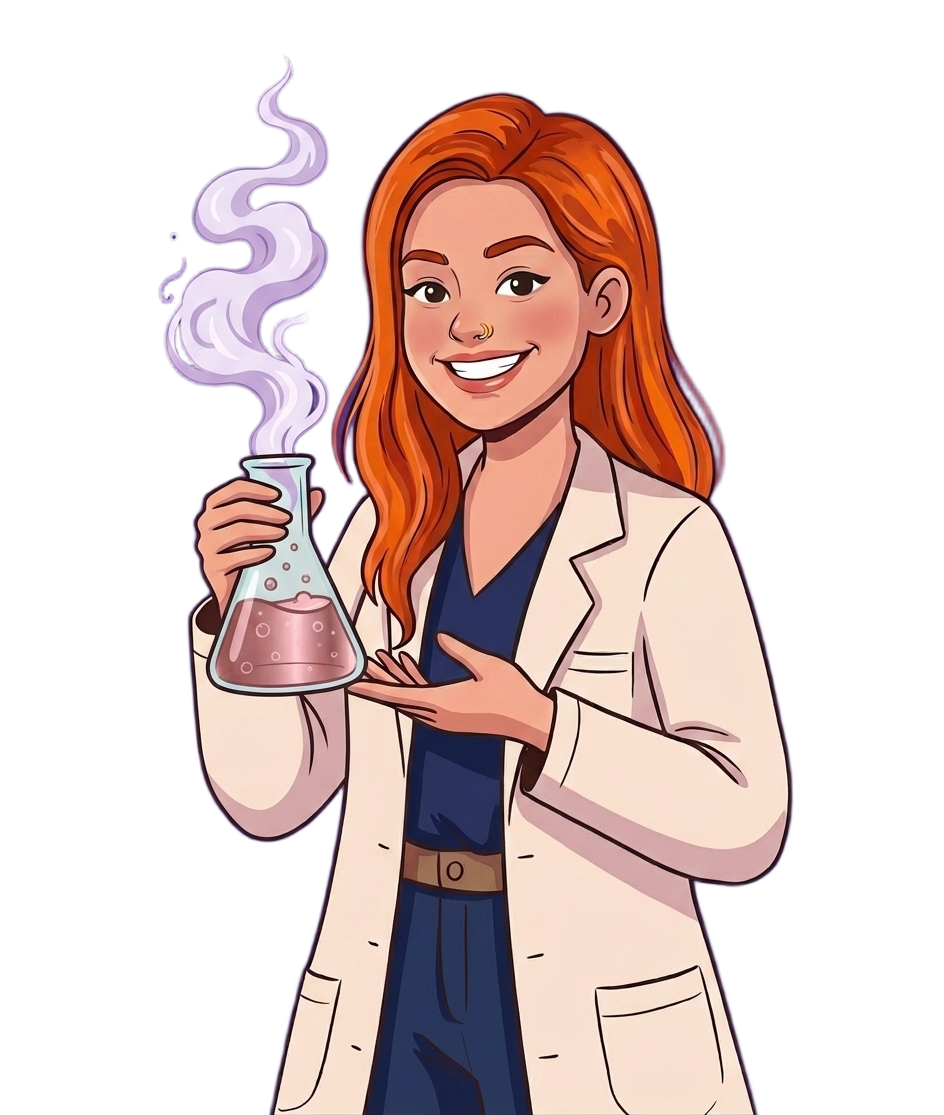
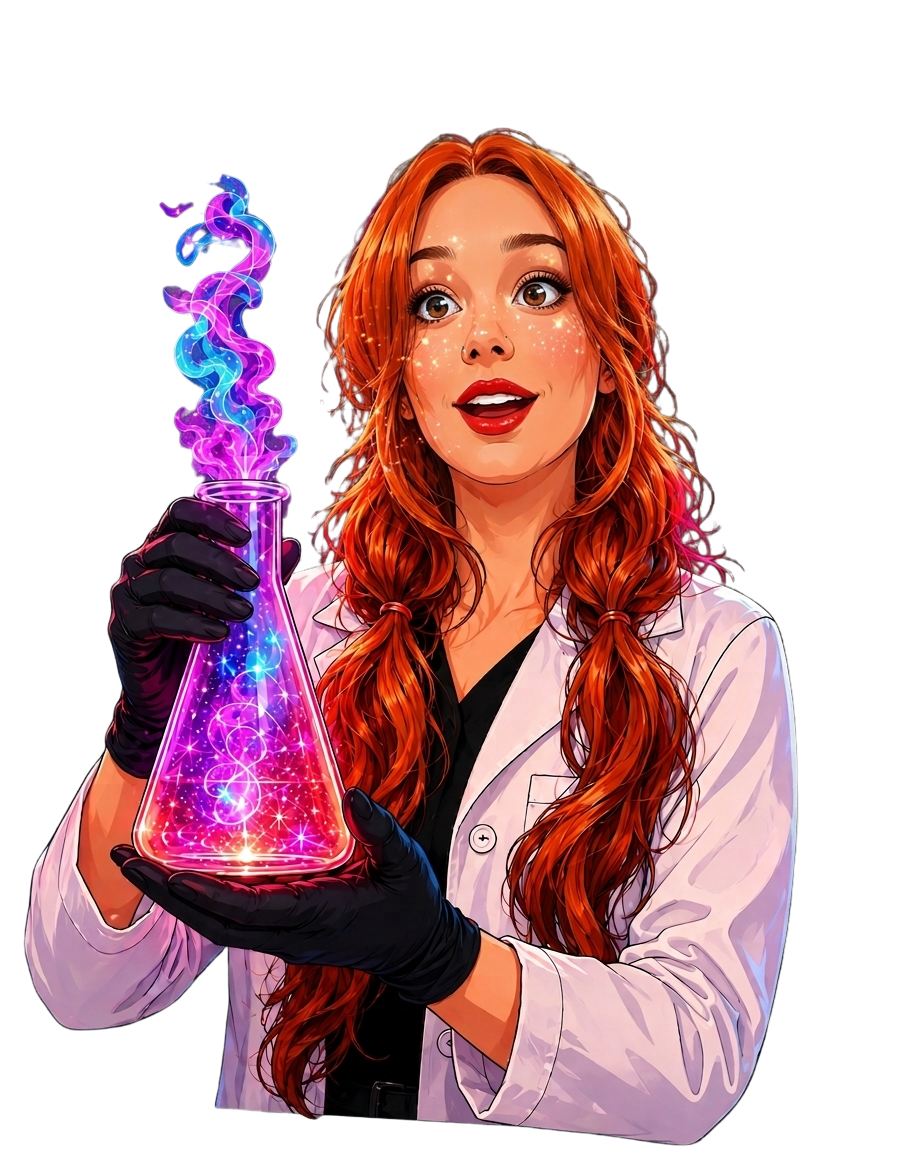
feature: add arquive filter for new product (accept .zip or .pdf)

diff --git a/src/components/adminPanel/product/ProductFiles.tsx b/src/components/adminPanel/product/ProductFiles.tsx
@@ -14,7 +14,7 @@ interface ProductFilesProps {
 }
 
 export function ProductFiles({ data, onChange, existingCoverUrl, existingFileUrl }: ProductFilesProps) {
-  const pdfInputRef = useRef<HTMLInputElement>(null);
+  const fileInputRef = useRef<HTMLInputElement>(null);
   const coverInputRef = useRef<HTMLInputElement>(null);
   const [coverPreviewUrl, setCoverPreviewUrl] = useState<string | null>(
     existingCoverUrl ? `${API_URL}/uploads/${existingCoverUrl}` : null
@@ -48,48 +48,48 @@ export function ProductFiles({ data, onChange, existingCoverUrl, existingFileUrl
     };
   }, [data.cover, existingCoverUrl]);
 
-  const handlePdfChange = (e: React.ChangeEvent<HTMLInputElement>) => {
-    if (e.target.files?.[0]) onChange('pdf', e.target.files[0]);
+  const handleFileChange = (e: React.ChangeEvent<HTMLInputElement>) => {
+    if (e.target.files?.[0]) onChange('file', e.target.files[0]);
   };
 
   const handleCoverChange = (e: React.ChangeEvent<HTMLInputElement>) => {
     if (e.target.files?.[0]) onChange('cover', e.target.files[0]);
   };
 
-  const hasPdf = !!data.pdf || !!existingFileUrl;
+  const hasFile = !!data.file || !!existingFileUrl;
 
   return (
     <div className="flex flex-col gap-5">
 
-      {/* PDF */}
+      {/* Arquivo do produto */}
       <div className="flex flex-col gap-1.5">
         <label className="text-xs font-bold text-texto-secundario">
-          Arquivo PDF
+          Arquivo do produto
           {existingFileUrl && <span className="text-gray-300 font-normal ml-1">(deixe vazio para manter o atual)</span>}
         </label>
         <button
           type="button"
-          onClick={() => pdfInputRef.current?.click()}
-          className={`w-full flex items-center gap-3 border-2 border-dashed squircle-border px-4 py-4 transition-all cursor-pointer group ${hasPdf
+          onClick={() => fileInputRef.current?.click()}
+          className={`w-full flex items-center gap-3 border-2 border-dashed squircle-border px-4 py-4 transition-all cursor-pointer group ${hasFile
               ? 'border-turquesa-dark bg-turquesa-light/30 hover:bg-turquesa-light/50'
               : 'border-gray-200 bg-gray-50/50 hover:border-turquesa-dark hover:bg-turquesa-light/20'
             }`}
         >
-          <div className={`w-9 h-9 rounded-xl flex items-center justify-center shrink-0 transition-colors ${hasPdf ? 'bg-turquesa-dark' : 'bg-white border border-gray-200 shadow-sm group-hover:border-turquesa-dark'
+          <div className={`w-9 h-9 rounded-xl flex items-center justify-center shrink-0 transition-colors ${hasFile ? 'bg-turquesa-dark' : 'bg-white border border-gray-200 shadow-sm group-hover:border-turquesa-dark'
             }`}>
-            {hasPdf
+            {hasFile
               ? <FileCheck className="w-4 h-4 text-white" />
               : <Upload className="w-4 h-4 text-turquesa-dark" />
             }
           </div>
           <div className="flex flex-col items-start text-left">
-            <span className={`text-sm font-semibold ${hasPdf ? 'text-turquesa-dark' : 'text-texto-secundario'}`}>
-              {data.pdf ? data.pdf.name : existingFileUrl ? 'PDF carregado — clique para substituir' : 'Selecionar arquivo PDF'}
+            <span className={`text-sm font-semibold ${hasFile ? 'text-turquesa-dark' : 'text-texto-secundario'}`}>
+              {data.file ? data.file.name : existingFileUrl ? 'Arquivo carregado — clique para substituir' : 'Selecionar arquivo'}
             </span>
-            {!hasPdf && <span className="text-xs text-gray-400">Formato .pdf</span>}
+            {!hasFile && <span className="text-xs text-gray-400">Formato .pdf ou .zip</span>}
           </div>
         </button>
-        <input type="file" ref={pdfInputRef} onChange={handlePdfChange} accept="application/pdf" className="hidden" />
+        <input type="file" ref={fileInputRef} onChange={handleFileChange} accept=".pdf,.zip,application/pdf,application/zip,application/x-zip-compressed" className="hidden" />
       </div>
 
       {/* Capa */}

diff --git a/src/components/header/header.tsx b/src/components/header/header.tsx
@@ -20,7 +20,7 @@ export function Header() {
     }, []);
 
     return (
-        <header className={`w-full fixed top-0 left-0 right-0 z-50 transition-colors duration-300 ${isScrolled ? "bg-marinho/80 backdrop-blur-md" : "bg-transparent"}`}>
+        <header className={`w-full fixed top-0 left-0 right-0 z-50 px-2 transition-colors duration-300 ${isScrolled ? "bg-marinho/80 backdrop-blur-md" : "bg-transparent"}`}>
             <div className="max-w-5xl mx-auto flex justify-between items-center py-2">
                 <div
                     className="flex flex-row items-center gap-2 p-2 cursor-pointer"
@@ -32,7 +32,7 @@ export function Header() {
                 >
                     <Image src="/acienciadalua-logo-var1.svg" alt="A ciência da Lua - logo" width={36} height={36} />
                     <p className="font-unkempt text-xl lg:text-4xl text-ouro">
-                        A Ciência da <span className="text-xl lg:text-3xl text-turquesa-dark">Lua</span>
+                        A Ciência da <span className="text-xl lg:text-4xl text-turquesa-dark">Lua</span>
                     </p>
                 </div>
                 <button onClick={() => router.push("/minha-conta/signin")} className="text-white/90 text-sm md:text-md font-semibold transition-colors hover:opacity-90 cursor-pointer active:scale-95"> Minha conta </button>

diff --git a/src/components/adminPanel/product/ProductForm.tsx b/src/components/adminPanel/product/ProductForm.tsx
@@ -34,7 +34,7 @@ export function ProductForm({ product }: ProductFormProps) {
       : '',
     priceValue: product?.price ?? 0,
     category: product?.category ?? MaterialType.STUDENT,
-    pdf: null,
+    file: null,
     cover: null,
     isActive: product?.isActive ?? true,
   });
@@ -54,7 +54,7 @@ export function ProductForm({ product }: ProductFormProps) {
 
     if (!formData.title.trim()) return setError('O título é obrigatório.');
     if (formData.priceValue <= 0) return setError('Informe um preço válido.');
-    if (!isEditing && !formData.pdf) return setError('O arquivo PDF é obrigatório.');
+    if (!isEditing && !formData.file) return setError('O arquivo do produto é obrigatório.');
     if (!isEditing && !formData.cover) return setError('A capa é obrigatória.');
 
     setLoading(true);
@@ -67,7 +67,7 @@ export function ProductForm({ product }: ProductFormProps) {
       data.append('category', formData.category as string);
       data.append('isActive', String(isActive));
 
-      if (formData.pdf) data.append('file', formData.pdf);
+      if (formData.file) data.append('file', formData.file);
       if (formData.cover) data.append('cover', formData.cover);
 
       if (isEditing) {

diff --git a/src/components/home/bannerSection.tsx b/src/components/home/bannerSection.tsx
@@ -96,13 +96,13 @@ export function BannerSection() {
                     </div>
                 </div>
             </div>
-            <div className="hidden md:block relative w-full h-56 md:h-auto md:w-80 lg:w-120 md:flex-none">
+            <div className="hidden md:block relative -bottom-5.5 w-full h-56 md:h-auto md:w-80 lg:w-126 md:flex-none">
                 <Image
                     fill
                     src="/lua-person.png"
                     alt=""
                     sizes="(min-width: 1024px) 480px, (min-width: 768px) 320px, 100vw"
-                    className="object-contain object-bottom [mask-image:linear-gradient(to_top,transparent_0%,black_5%)] gradient(to_top) [webkit-mask-image:linear-gradient(to_top,transparent_0%,black_35%)]"
+                    className="object-contain object-bottom [mask-image:linear-gradient(to_top,transparent_0%,black_3%)] gradient(to_top) [webkit-mask-image:linear-gradient(to_top,transparent_0%,black_35%)]"
                 />
             </div>
         </section>

diff --git a/src/components/ui/card/purchasedMaterialCard.tsx b/src/components/ui/card/purchasedMaterialCard.tsx
@@ -1,4 +1,4 @@
-import { Material, MaterialType, getMaterialTypeLabel } from "@/types/material";
+import { Material, MaterialType, getMaterialTypeLabel, getMaterialFormat } from "@/types/material";
 import { ArrowDownToLine, BookOpen, MonitorPlay } from "lucide-react";
 import Image from "next/image";
 
@@ -67,7 +67,7 @@ export function PurchasedMaterialCard({ material }: PurchasedMaterialCardProps) 
                         className="flex items-center gap-1.5 squircle-border bg-turquesa-dark hover:bg-turquesa-dark/90 text-white text-xs shadow-sm font-semibold px-3 py-2.5 cursor-pointer transition-all active:scale-95 shrink-0"
                     >
                         <ArrowDownToLine size={14} />
-                        PDF
+                        {getMaterialFormat(material)}
                     </a>
                 )}
             </div>

diff --git a/src/types/material.ts b/src/types/material.ts
@@ -13,6 +13,7 @@ export function getMaterialFormat(material: Pick<Material, "category" | "fileUrl
     const fileUrl = material.fileUrl?.toLowerCase() ?? "";
     const extension = fileUrl.split("?")[0].split(".").pop();
     if (extension === "pdf") return "PDF";
+    if (extension === "zip") return "ZIP";
     return getMaterialTypeLabel(material.category);
 }
 
@@ -36,7 +37,7 @@ export interface ProductFormData {
     price: string;
     priceValue: number;
     category: MaterialType | string;
-    pdf: File | null;
+    file: File | null;
     cover: File | null;
     isActive: boolean;
 }
